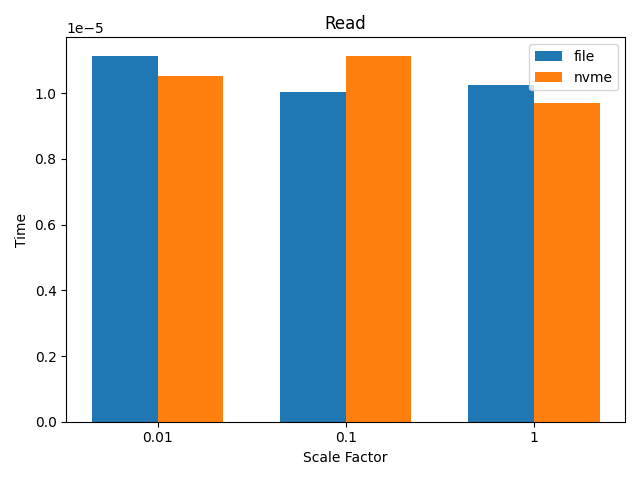
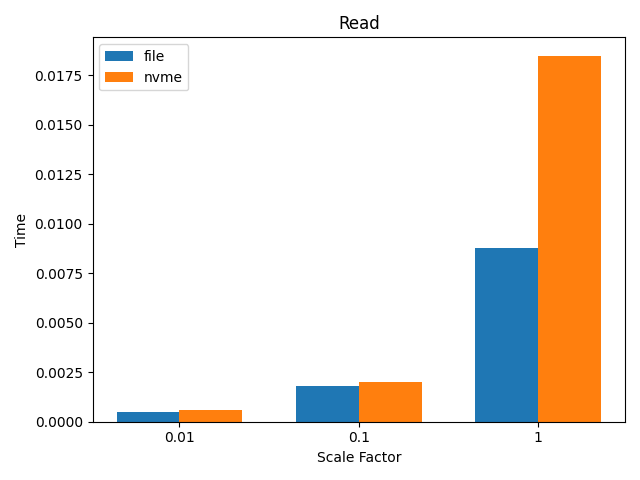
We submit the full duckdb block onto a queue.

diff --git a/src/common/file_buffer.cpp b/src/common/file_buffer.cpp
@@ -131,46 +131,22 @@ void FileBuffer::Read(xnvme_dev *dev, uint64_t location, QueuePool &qpool) {
 	auto geo = xnvme_dev_get_geo(dev);
 	auto lba_size = geo->nbytes;
 	auto lba_location = location / lba_size;
-	auto mdts_size = static_cast<uint32_t>(1 << (64 - __builtin_clzl(geo->mdts_nbytes - 1)));
-	auto lbas_pr_mdts = mdts_size / lba_size;
-	uint64_t submissions = 1 + ((internal_size - 1) / mdts_size);
+	auto lbas_to_write = (internal_size / lba_size) - 1;
 
-	// allocate dma buffer
-	// auto nvme_buf_size = lba_size * lba_amount;
-	// char *nvme_buf = static_cast<char *>(xnvme_buf_alloc(dev, nvme_buf_size));
-	// if (!nvme_buf) {
-	// 	xnvme_cli_perr("xnvme_buf_alloc()", errno);
-	// 	goto exit;
-	// }
-
-	// clear buffer before writing to it, maybe not necessary
-	// xnvme_buf_clear(nvme_buf, nvme_buf_size);
-
-	// read one lba block at a time, sequentially, into dma buffer
-	for (uint64_t i = 0; i < submissions; i++) {
-		auto offset = i * mdts_size;
-		auto *payload = internal_buffer + offset;
-		auto lbas = internal_size - offset >= mdts_size ? lbas_pr_mdts : (internal_size - offset) / lba_size;
-
-		err = qwrap->SubmitRead(dev, lba_location + i * lbas_pr_mdts, (uint16_t)lbas - 1, payload);
-		if (err) {
-			goto exit;
-		}
+	err = qwrap->SubmitRead(dev, lba_location, (uint16_t)lbas_to_write, internal_buffer);
+	if (err) {
+		goto exit;
 	}
 
-	// all is submitted, now wait for completion
-	// ret = qwrap->Drain();
-	qwrap->Release();
+	// all is submitted
+	ret = qwrap->Drain();
 	if (ret < 0) {
 		xnvme_cli_perr("xnvme_queue_drain()", ret);
 		goto exit;
 	}
 
-	// transfer data in dma buffer to duckdb buffer
-	// memcpy(internal_buffer, nvme_buf, nvme_buf_size);
-
 exit:
-	// xnvme_buf_free(dev, nvme_buf);
+	qwrap->Release();
 	return;
 }
 
@@ -194,47 +170,21 @@ void FileBuffer::Write(xnvme_dev *dev, uint64_t location, QueuePool &qpool) {
 	auto geo = xnvme_dev_get_geo(dev);
 	auto lba_size = geo->nbytes;
 	auto lba_location = location / lba_size;
-	auto mdts_size = static_cast<uint32_t>(1 << (64 - __builtin_clzl(geo->mdts_nbytes - 1)));
-	auto lbas_pr_mdts = mdts_size / lba_size;
-	uint64_t submissions = 1 + ((internal_size - 1) / mdts_size);
+	auto lbas_to_write = (internal_size / lba_size) - 1;
 
-	// allocate dma buffer
-	// auto nvme_buf_size = lba_size * lba_amount;
-	// char *nvme_buf = static_cast<char *>(xnvme_buf_alloc(dev, nvme_buf_size));
-	// if (!nvme_buf) {
-	// 	xnvme_cli_perr("xnvme_buf_alloc()", errno);
-	// 	goto exit;
-	// }
-
-	// transfer data from duckdb buffer to dma buffer
-	// memcpy(nvme_buf, internal_buffer, nvme_buf_size);
-
-	// write one lba block at a time, sequentially, to disk from dma buffer
-	for (uint64_t i = 0; i < submissions; i++) {
-		auto offset = i * mdts_size;
-		auto *payload = internal_buffer + offset;
-		auto lbas = internal_size - offset >= mdts_size ? lbas_pr_mdts : (internal_size - offset) / lba_size;
-
-		err = qwrap->SubmitWrite(dev, lba_location + i * lbas_pr_mdts, (uint16_t)lbas - 1, payload);
-		if (err) {
-			goto exit;
-		}
+	err = qwrap->SubmitWrite(dev, lba_location, (uint16_t)lbas_to_write, internal_buffer);
+	if (err) {
+		goto exit;
 	}
 
-	// all is submitted, DO NOT DRAIN
-	// ret = qwrap->Drain();
-	// qwrap->Poke();
-	qwrap->Release();
+	ret = qwrap->Drain();
 	if (ret < 0) {
 		xnvme_cli_perr("xnvme_queue_drain()", ret);
 		goto exit;
 	}
 
-	// transfer data in dma buffer to duckdb buffer
-	// memcpy(internal_buffer, nvme_buf, nvme_buf_size);
-
 exit:
-	// xnvme_buf_free(dev, nvme_buf);
+	qwrap->Release();
 	return;
 }
 

diff --git a/thesis_testing/test.py b/thesis_testing/test.py
@@ -1,4 +1,5 @@
 import os
+import re
 import statistics
 import subprocess
 import time
@@ -16,7 +17,7 @@ file_db = cur_dir / "test.db"
 nvme_db = "/dev/nvme1n1"
 
 # test meta information
-test_amount = 3
+test_amount = 1
 test_scales = [0.01, 0.1, 1]
 
 # these are the builds of DuckDB we need for testing
@@ -26,7 +27,7 @@ if not (duckdb_file.exists() and duckdb_nvme.exists()):
     print("Could not find the required build files.")
     exit()
 
-# sql files, THIS MIGHT NEED REWORKING
+# sql file
 sql_read = cur_dir / "sql/read.sql"
 if not (sql_read.exists()):
     print("Could not find sql file.")
@@ -58,6 +59,9 @@ class Tester:
         Get the result from the internal timers.
         """
 
+        print("read:  ", self._read_times)
+        print("write: ", self._write_times)
+
         read = statistics.mean(self._read_times)
         write = statistics.mean(self._write_times)
 
@@ -79,15 +83,14 @@ class Tester:
             stderr=subprocess.PIPE,
         )
 
-        start_time = time.perf_counter()
-
-        # execute SQL against db
-        # adds an 'exit' statement for DuckDB to exit session after SQL
-        sql_cmd = ".mode trash\n" + f"CALL dbgen(sf={self._scale_factor});" + "\n.exit"
+        sql_cmd = f"explain analyse call dbgen(sf={self._scale_factor});\n.exit\n"
         stdout, stderr = proc.communicate(sql_cmd.encode("utf-8"))
 
-        sql_time = time.perf_counter()
-        self._write_times.insert(0, sql_time - start_time)
+        match = re.search(r"Total Time:\s*([\d.]+)s", stdout.decode("utf-8"))
+        if match:
+            self._write_times.insert(0, float(match.group(1)))
+        else:
+            print("no write time.")
 
         if stderr:
             print("\t\tFAILED")
@@ -112,15 +115,14 @@ class Tester:
             stderr=subprocess.PIPE,
         )
 
-        start_time = time.perf_counter()
-
-        # execute SQL against db
-        # adds an 'exit' statement for DuckDB to exit session after SQL
-        sql_cmd = ".mode trash\n" + sql + "\n.exit"
+        sql_cmd = f"{sql}\n.exit\n"
         stdout, stderr = proc.communicate(sql_cmd.encode("utf-8"))
 
-        sql_time = time.perf_counter()
-        self._read_times.insert(0, sql_time - start_time)
+        match = re.search(r"Total Time:\s*([\d.]+)s", stdout.decode("utf-8"))
+        if match:
+            self._read_times.insert(0, float(match.group(1)))
+        else:
+            print("no read time.")
 
         if stderr:
             print("\t\tFAILED")

diff --git a/src/include/duckdb/storage/queue_pool.hpp b/src/include/duckdb/storage/queue_pool.hpp
@@ -47,7 +47,9 @@ protected:
 class QueuePool {
 public:
 	QueuePool(struct xnvme_dev *dev, int pool_size, uint16_t qdepth);
-	~QueuePool() {};
+	~QueuePool() {
+		Close();
+	};
 	QueueWrapper *GetAvailableQueue();
 	void Close();
 	void Sync();

diff --git a/src/storage/single_file_block_manager.cpp b/src/storage/single_file_block_manager.cpp
@@ -163,7 +163,6 @@ SingleFileBlockManager::SingleFileBlockManager(AttachedDatabase &db, const strin
 }
 
 SingleFileBlockManager::~SingleFileBlockManager() {
-	qpool->Close();
 	header_buffer.Close();
 }
 
